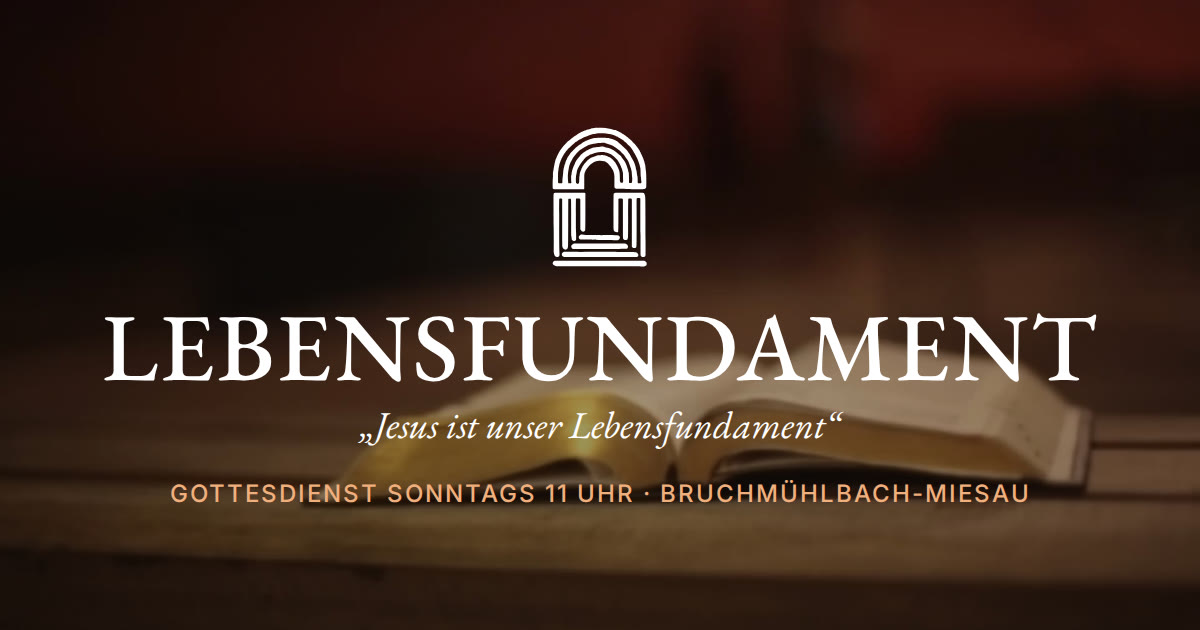
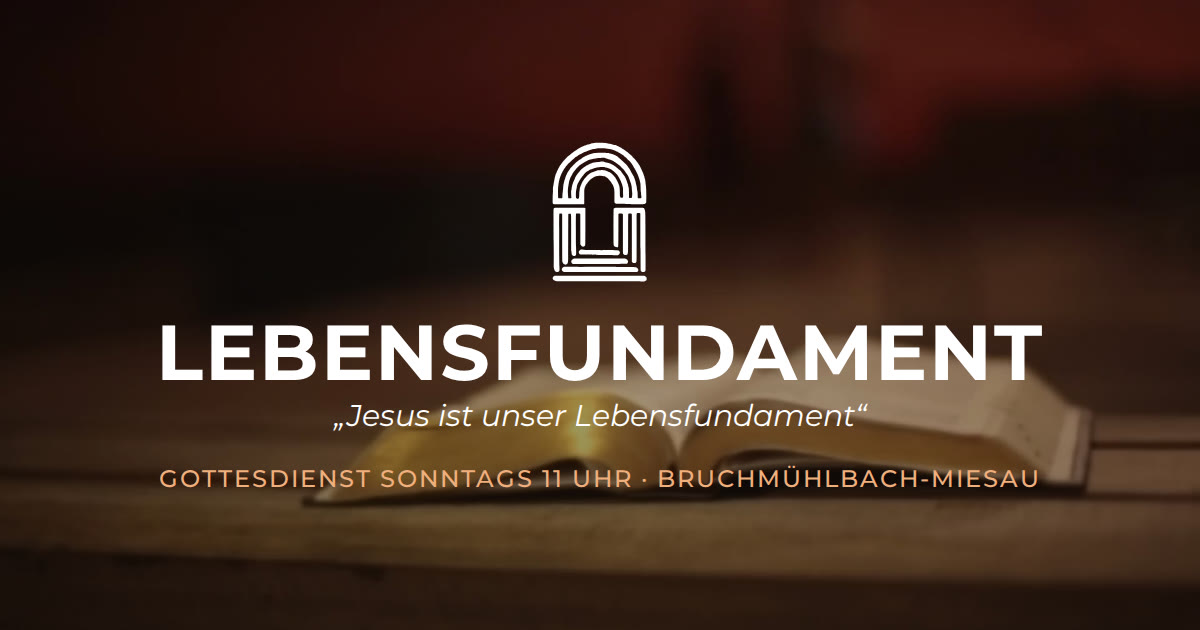
Switch the site font to Montserrat
As chosen from the preview (variant B): Montserrat for everything,
headings and the logo wordmark in Bold (700), body text in regular.

- Fontsource: Montserrat 300–700 plus 300/400 italic (Latin subset)
  replace EB Garamond and Inter; both packages are removed
- --font-heading and --font-body point to Montserrat, heading weight 700
- Montserrat Bold is wider: section titles get a smaller minimum size
  and the mobile menu links are smaller below 400px, so "Veranstaltungen"
  fits on 320–360px phones; the one weight-800 rule uses 700
- Link preview image re-rendered with Montserrat
- README names the new font

Checked at 1440, 820, 390, 360 and 320px: no text wider than its box,
no horizontal scrolling, only Montserrat loaded, no console errors.

Claude-Session: https://claude.ai/code/session_01ATdbpFbCVpoaUS55mvft23

diff --git a/src/index.jsx b/src/index.jsx
@@ -1,14 +1,14 @@
 import React from 'react';
 import ReactDOM from 'react-dom/client';
-// Fonts are bundled with the site (no requests to Google): the same
-// cuts as before, Latin subset only
-import '@fontsource/eb-garamond/latin-400.css';
-import '@fontsource/eb-garamond/latin-500.css';
-import '@fontsource/eb-garamond/latin-400-italic.css';
-import '@fontsource/inter/latin-300.css';
-import '@fontsource/inter/latin-400.css';
-import '@fontsource/inter/latin-500.css';
-import '@fontsource/inter/latin-600.css';
+// Montserrat is bundled with the site (no requests to Google), Latin
+// subset only: 300–700 plus italics for the intro texts
+import '@fontsource/montserrat/latin-300.css';
+import '@fontsource/montserrat/latin-400.css';
+import '@fontsource/montserrat/latin-500.css';
+import '@fontsource/montserrat/latin-600.css';
+import '@fontsource/montserrat/latin-700.css';
+import '@fontsource/montserrat/latin-300-italic.css';
+import '@fontsource/montserrat/latin-400-italic.css';
 import './index.css';
 import App from './App';
 

diff --git a/src/index.css b/src/index.css
@@ -1,7 +1,7 @@
 :root {
-  --font-heading: 'EB Garamond', Georgia, serif;
-  --font-heading-weight: 500;
-  --font-body:    'Inter', -apple-system, BlinkMacSystemFont, sans-serif;
+  --font-heading: 'Montserrat', -apple-system, BlinkMacSystemFont, sans-serif;
+  --font-heading-weight: 700;
+  --font-body:    'Montserrat', -apple-system, BlinkMacSystemFont, sans-serif;
 
   /* Brand — fixed */
   --color-orange:        #ab4d13;
@@ -203,7 +203,8 @@ code {
 
 .section-title {
   font-family: var(--font-heading);
-  font-size: clamp(2.5rem, 5vw, 4rem);
+  /* Montserrat Bold is wide: smaller minimum so "Veranstaltungen" fits on 320–360px phones */
+  font-size: clamp(2rem, 4vw + 1rem, 4rem);
   font-weight: var(--font-heading-weight);
   margin-bottom: 1rem;
   color: var(--color-text-primary);

diff --git a/src/components/Header.css b/src/components/Header.css
@@ -203,4 +203,9 @@
     font-size: 1.05rem;
     letter-spacing: 1px;
   }
+
+  /* Keeps "Veranstaltungen" inside the menu on 320px phones */
+  .main-nav a {
+    font-size: 1.3rem;
+  }
 }

diff --git a/src/components/Events.css b/src/components/Events.css
@@ -262,7 +262,7 @@
 .regular-time span {
   font-size: 1.5rem;
   color: var(--color-text-primary);
-  font-weight: 800;
+  font-weight: 700;
 }
 
 .regular-description {

diff --git a/README.md b/README.md
@@ -19,7 +19,7 @@ A modern, responsive website for Kirche Lebensfundament in Bruchmühlbach-Miesau
 - React 18 with [Vite](https://vite.dev) (requires Node.js 20.19+ or 22.12+)
 - Plain CSS with design tokens (CSS custom properties)
 - [AOS](https://michalsnik.github.io/aos/) for scroll animations
-- Fonts: EB Garamond (headings) and Inter (body text), self-hosted via [Fontsource](https://fontsource.org) – no requests to Google
+- Font: Montserrat (headings in bold, body text regular), self-hosted via [Fontsource](https://fontsource.org) – no requests to Google
 - Icons: inline SVGs from [Feather](https://feathericons.com) and [Phosphor](https://phosphoricons.com) (Bold)
 
 ## 📦 Installation
